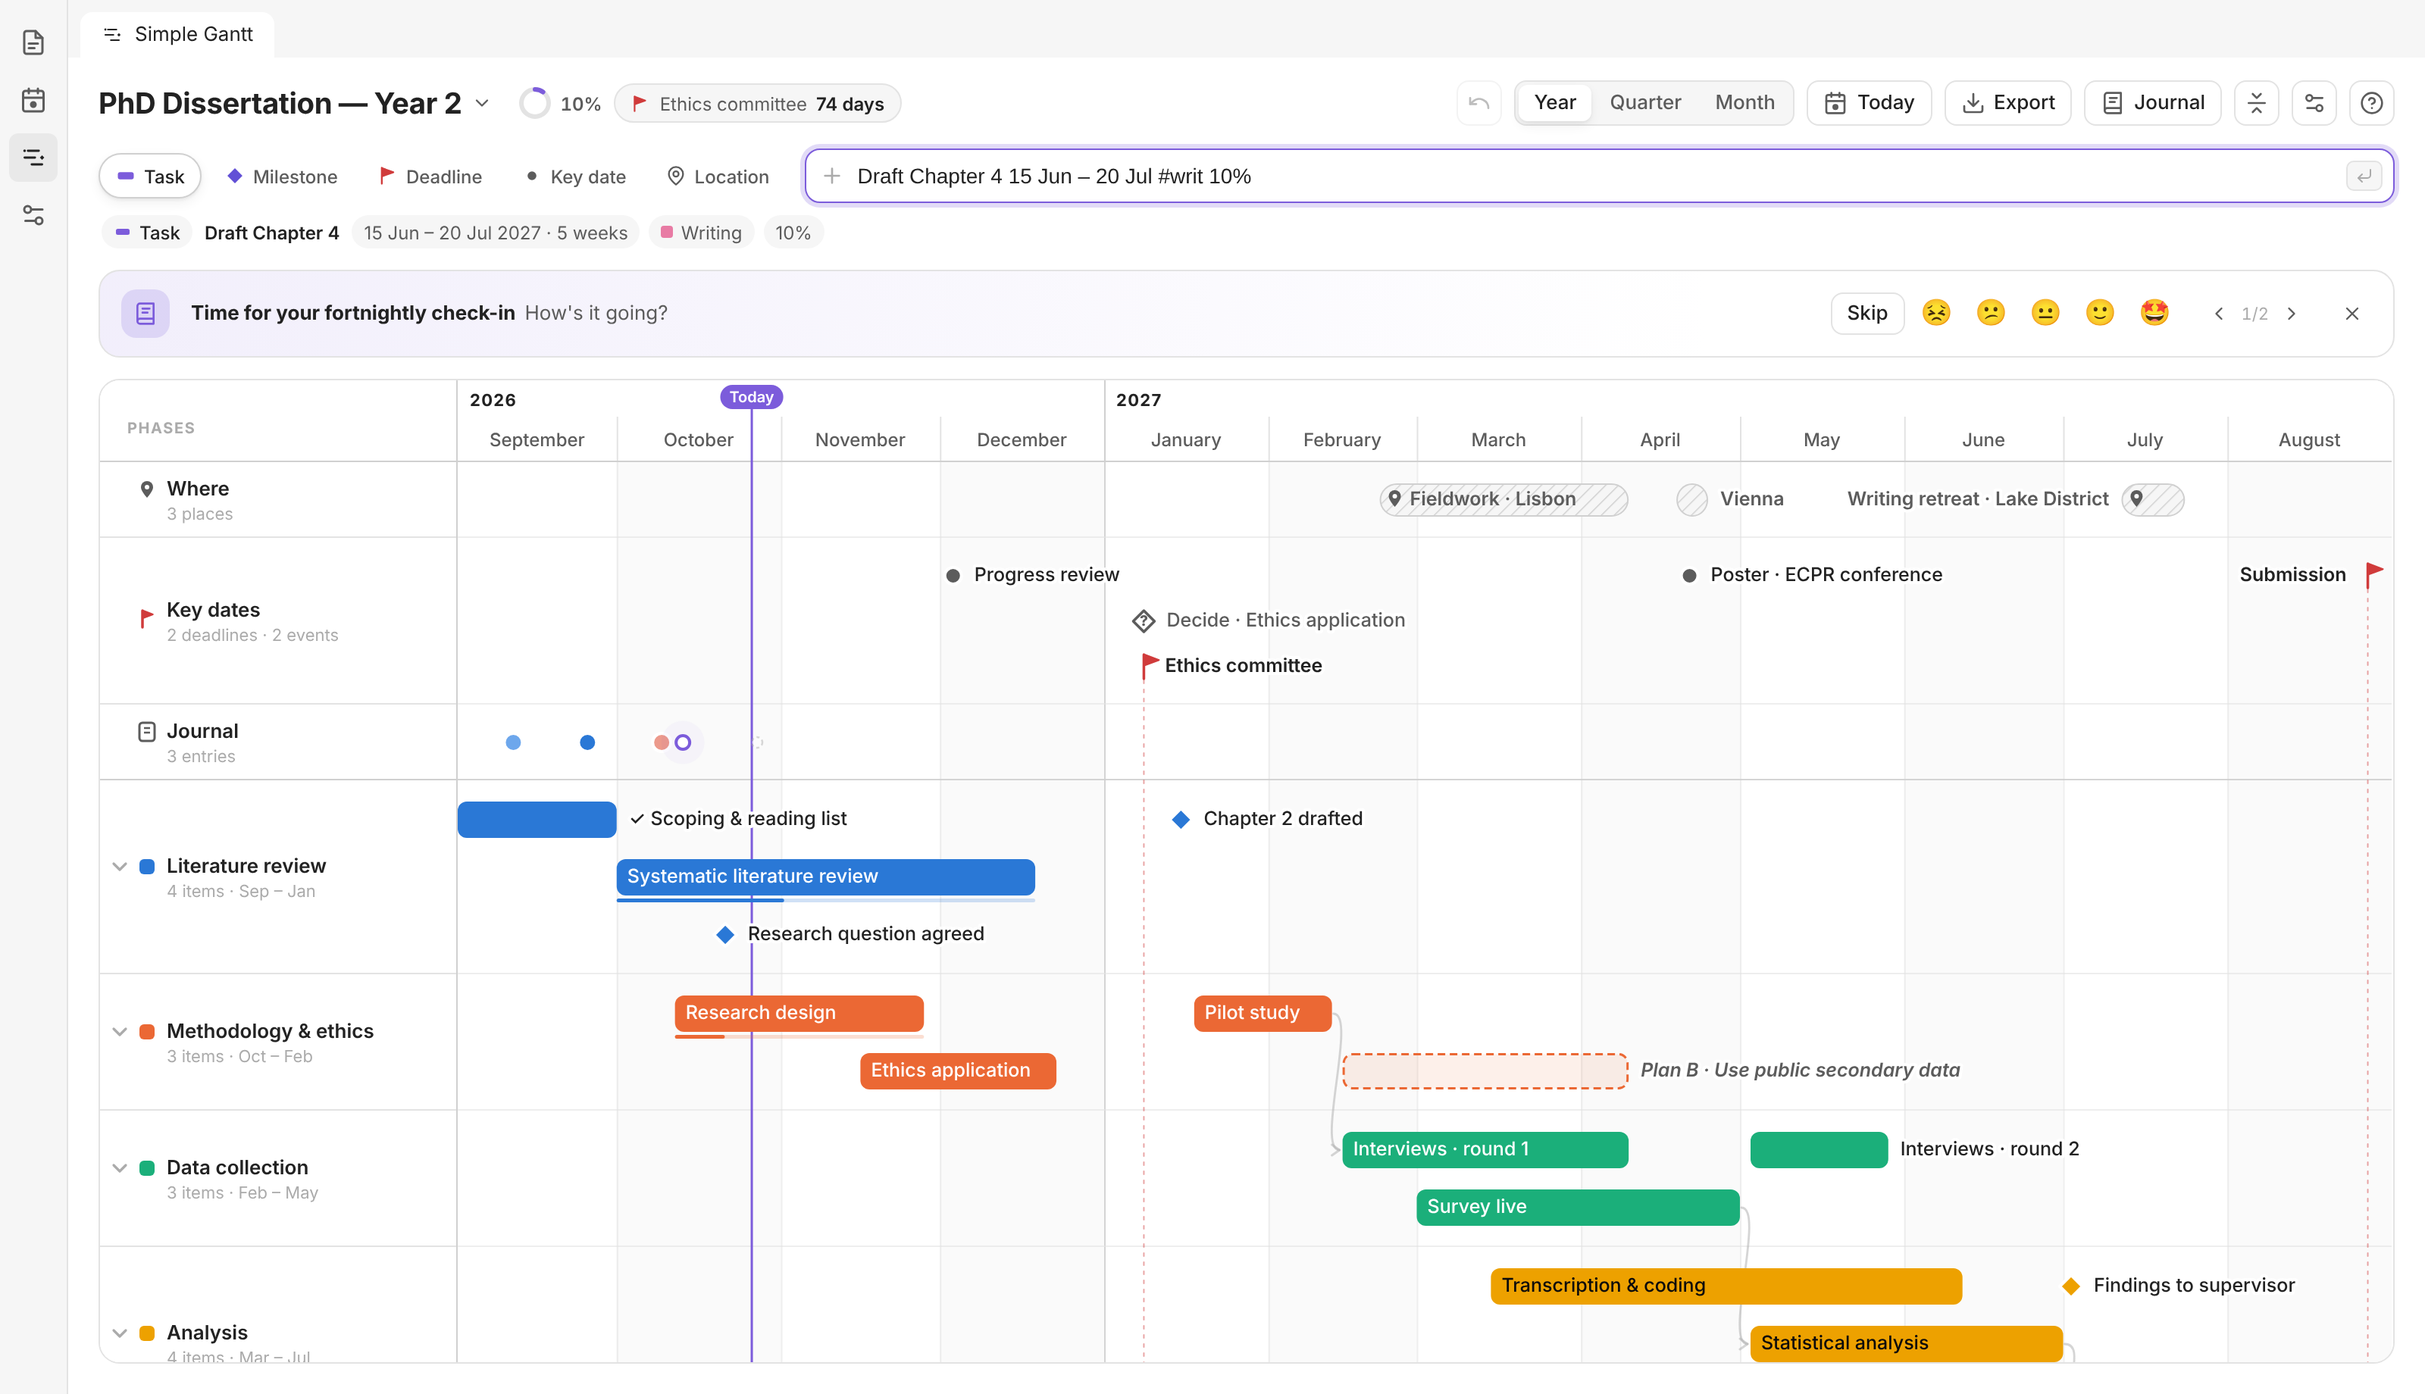
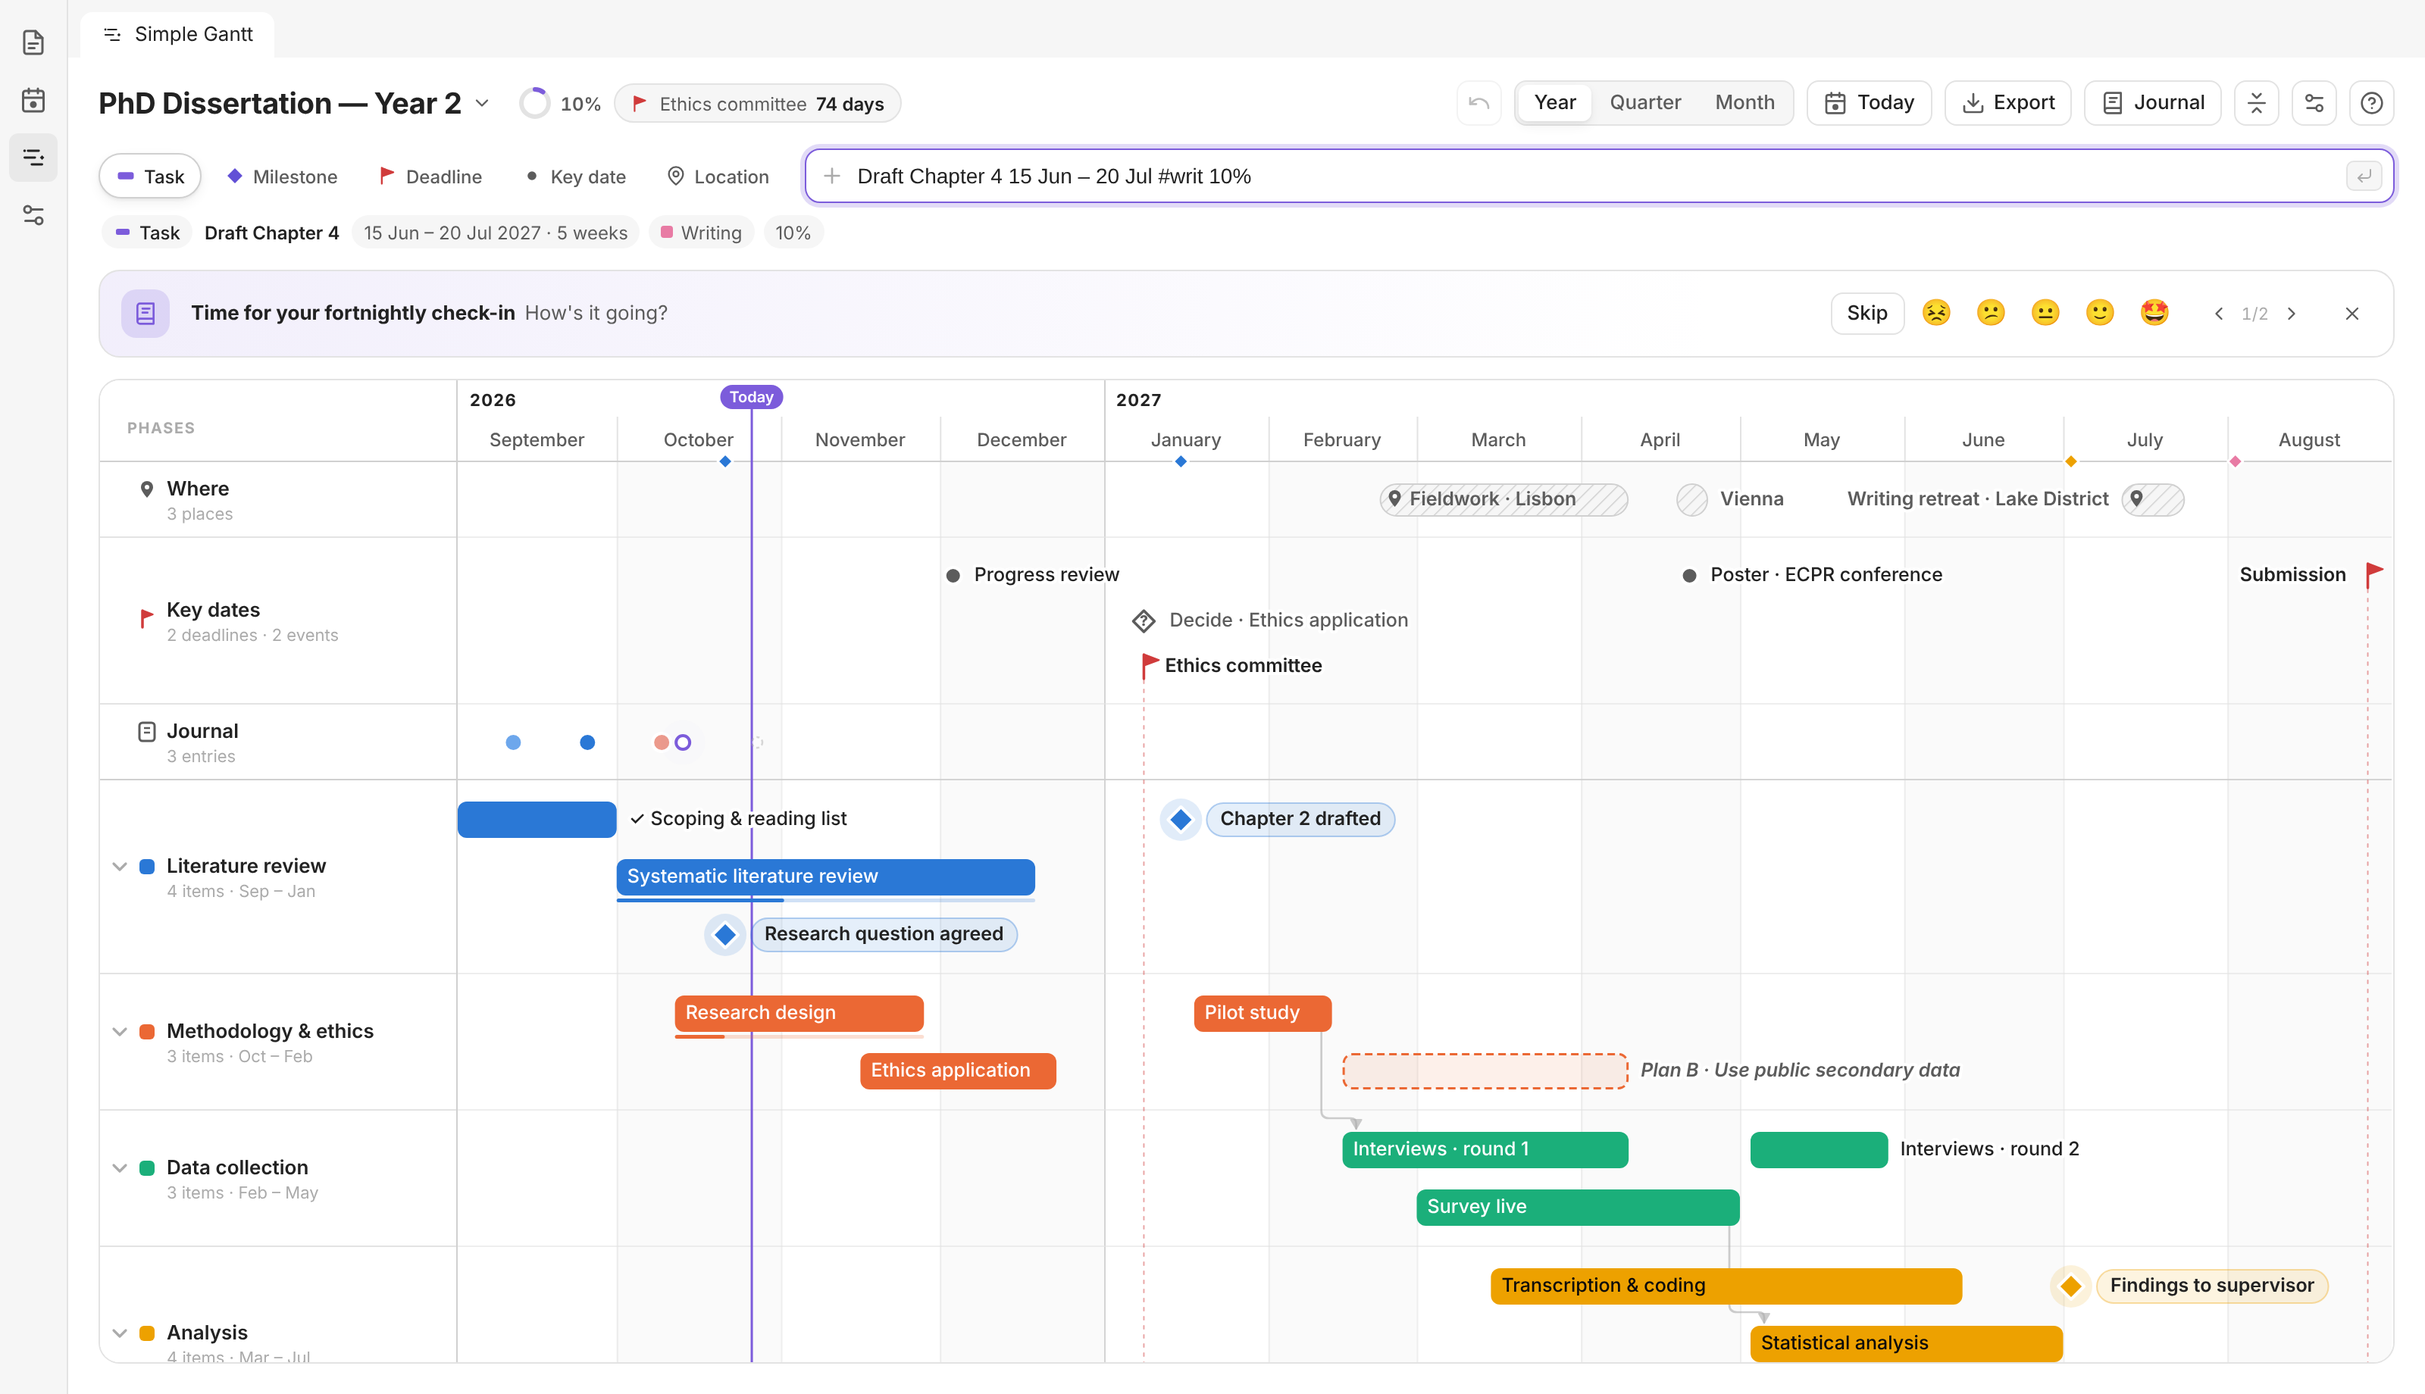
Professional link routing and highlighted milestones (0.6.0)
- Links are orthogonal with softly rounded corners: they leave from
  under the end of a task (never through its label), run straight into
  the next task, or drop onto its top edge when it starts right away;
  arrowheads follow the final direction
- Links to deadlines are left out of exports (the dashed rule shows it)
- Milestones: larger diamond with a soft glow ring, a phase-tinted badge
  for the name, and a marker on the date ruler for every milestone

diff --git a/src/core/render.ts b/src/core/render.ts
@@ -1,5 +1,5 @@
 import { MONTHS_LONG, MONTHS_SHORT, dayFromYmd, formatDay, monthEnd, toDay, weekday, ymd } from "./dates";
-import { Lane, Layout, Measure, Placed, computeLayout } from "./layout";
+import { Lane, Layout, MILESTONE_BADGE_PAD, Measure, Placed, computeLayout } from "./layout";
 import { PRINT_THEME, Theme, inkOnFill } from "./theme";
 import { earliestAfter } from "./links";
 import { isOn } from "./features";
@@ -146,6 +146,20 @@ export function paintHeader(layout: Layout, o: PaintOptions): SVGSVGElement {
 	}
 
 	svgEl("line", { x1: 0, x2: layout.width, y1: layout.headerH - 0.5, y2: layout.headerH - 0.5, stroke: theme.axis }, svg);
+
+	// Milestones are marked on the date ruler too, so they're visible even when rows are folded or scrolled away.
+	for (const p of layout.placed) {
+		if (p.kind !== "item" || p.item.type !== "milestone" || p.item.dropped) continue;
+		const x = layout.xOf(p.startDay) + layout.pxPerDay / 2;
+		const y = layout.headerH - 0.5;
+		const r = 5;
+		const fill = p.color ? theme.palette[p.color] : theme.inkSecondary;
+		const m = svgEl("path", {
+			d: `M${x},${y - r} L${x + r},${y} L${x},${y + r} L${x - r},${y} Z`,
+			fill, stroke: theme.surface, "stroke-width": 1.5, "stroke-linejoin": "round", class: "sg-ruler-milestone",
+		}, svg);
+		svgEl("title", {}, m).textContent = `${p.item.title} · ${formatDay(p.startDay)}`;
+	}
 
 	if (o.today != null && o.today >= layout.viewStart && o.today <= layout.viewEnd) {
 		const x = layout.xOf(o.today) + layout.pxPerDay / 2;
@@ -416,7 +430,9 @@ function paintItem(parent: Element, p: Placed, layout: Layout, o: PaintOptions, 
 	} else {
 		const cx = (p.x0 + p.x1) / 2;
 		if (it.type === "milestone") {
-			const r = 7.5;
+			const r = 8.5;
+			// A soft glow ring makes milestones stand out from bars and key dates.
+			if (!p.lane.collapsed) svgEl("circle", { cx, cy: p.cy, r: 14, fill: color, opacity: theme.dark ? 0.2 : 0.14, "pointer-events": "none", class: "sg-glow" }, g);
 			svgEl("path", {
 				d: `M${cx},${p.cy - r} L${cx + r},${p.cy} L${cx},${p.cy + r} L${cx - r},${p.cy} Z`,
 				fill: p.lane.collapsed ? theme.surface : color, stroke: p.lane.collapsed ? color : theme.surface,
@@ -433,7 +449,8 @@ function paintItem(parent: Element, p: Placed, layout: Layout, o: PaintOptions, 
 			}, g);
 		}
 		svgEl("rect", { x: cx - 10, y: p.cy - 11, width: 20, height: 22, fill: "transparent", "data-part": "body", class: "sg-hit" }, g);
-		text(g, p.labelX, p.cy, p.label, { ...labelAttrs, ...halo(theme), fill: theme.ink });
+		if (it.type === "milestone" && p.label) milestoneBadge(g, p, color, theme, labelAttrs);
+		else text(g, p.labelX, p.cy, p.label, { ...labelAttrs, ...halo(theme), fill: theme.ink });
 	}
 }
 
@@ -446,36 +463,81 @@ function paintLinks(svg: SVGSVGElement, layout: Layout, o: PaintOptions) {
 		for (const id of succ.item.after ?? []) {
 			const pred = byId.get(id);
 			if (!pred || pred.item.dropped || succ.item.dropped) continue;
+			const pts = routeLink(pred, succ, layout);
+			if (!pts) continue;
 			const bad = succ.startDay < earliestAfter(pred.item, succ.item);
 			const color = bad ? theme.deadline : theme.inkMuted;
-			const d = linkPath(pred.x1 + 1, pred.cy, succ.x0 - 2, succ.cy, layout.g.rowPitch);
-			// Links to or from a deadline duplicate its dashed rule: keep them hidden until hovered (interactive only).
-			const quiet = !bad && !!o.interactive && (pred.item.type === "deadline" || succ.item.type === "deadline");
+			// Links to or from a deadline duplicate its dashed rule: on screen they show on hover, on paper not at all.
+			const touchesDeadline = pred.item.type === "deadline" || succ.item.type === "deadline";
+			if (touchesDeadline && !bad && !o.interactive) continue;
+			const quiet = touchesDeadline && !bad;
 			const link = svgEl("g", { class: `sg-link${bad ? " is-bad" : ""}${quiet ? " is-quiet" : ""}`, "data-link": `${pred.item.id} ${succ.item.id}` }, g);
-			const attrs = { stroke: color, "stroke-linecap": "round", "stroke-linejoin": "round", opacity: bad ? 0.9 : 0.5 };
-			svgEl("path", { d, ...attrs, "stroke-width": bad ? 1.6 : 1.4, class: "sg-link-line" }, link);
-			// A small open chevron reads lighter than a filled triangle.
-			const x = succ.x0 - 2, y = succ.cy;
-			svgEl("path", { d: `M${x - 5},${y - 3.5} L${x},${y} L${x - 5},${y + 3.5}`, ...attrs, "stroke-width": 1.5, class: "sg-link-head" }, link);
+			const attrs = { stroke: color, "stroke-linecap": "round", "stroke-linejoin": "round", opacity: bad ? 0.9 : 0.6 };
+			svgEl("path", { d: roundedPath(pts, 5), ...attrs, "stroke-width": bad ? 1.6 : 1.35, class: "sg-link-line" }, link);
+			svgEl("path", { d: arrowHead(pts), ...attrs, fill: color, "stroke-width": 1, class: "sg-link-head" }, link);
 		}
 	}
 }
 
+type Pt = [number, number];
+
 /**
- * A smooth link from (x1, y1) to (x2, y2) that leaves and arrives horizontally.
- * Forward links are one S-curve; links that must go backwards loop through the gap between rows.
+ * Orthogonal route for a finish-to-start link. It leaves from just under (or over) the end of the
+ * predecessor, so it never crosses that item's label, then either runs straight into the successor's
+ * start or, when the successor starts right away, drops onto its top edge.
  */
-function linkPath(x1: number, y1: number, x2: number, y2: number, pitch: number): string {
-	if (Math.abs(y1 - y2) < 1) return `M${x1},${y1} L${x2},${y2}`;
-	const dx = x2 - x1;
-	// Forward, or back-to-back (next starts right as this ends): one gentle S-curve.
-	if (dx >= -24) {
-		const k = Math.max(16, Math.min(60, Math.abs(dx) / 2, Math.abs(y2 - y1) * 0.8));
-		return `M${x1},${y1} C${x1 + k},${y1} ${x2 - k},${y2} ${x2},${y2}`;
+function routeLink(pred: Placed, succ: Placed, layout: Layout): Pt[] | null {
+	const down = succ.cy > pred.cy;
+	const sign = down ? 1 : -1;
+	const point = (p: Placed) => p.item.type !== "task" && p.item.type !== "location";
+	const predHalf = point(pred) ? 9 : pred.lane.markH / 2;
+	const succHalf = point(succ) ? 10 : succ.lane.markH / 2;
+	const sx = point(pred) ? (pred.x0 + pred.x1) / 2 : pred.x1 - Math.min(7, (pred.x1 - pred.x0) / 2);
+	const sy = pred.cy + sign * predHalf;
+	const tx = succ.x0 - 2;
+	const ty = succ.cy;
+
+	if (Math.abs(pred.cy - succ.cy) < 1) {
+		// Same row: a short straight line from the end of the predecessor's footprint (bar or label).
+		const from = pred.labelInside || !pred.labelW || pred.labelAnchor === "end" ? pred.x1 + 2 : pred.labelX + pred.labelW + 6;
+		return tx - from >= 10 ? [[from, ty], [tx, ty]] : null;
 	}
-	const mid = y2 + (y2 > y1 ? -1 : 1) * (pitch / 2);
-	const r = Math.min(14, Math.abs(mid - y1) / 2, Math.abs(y2 - mid) / 2 + 6);
-	return `M${x1},${y1} C${x1 + r + 6},${y1} ${x1 + r + 6},${mid} ${x1},${mid} L${x2},${mid} C${x2 - r - 6},${mid} ${x2 - r - 6},${y2} ${x2},${y2}`;
+	if (tx - sx >= 12) return [[sx, sy], [sx, ty], [tx, ty]];
+
+	// The successor starts at or before our end: arrive on its near edge instead.
+	const edge = succ.cy - sign * (succHalf + 2);
+	const cx = point(succ) ? (succ.x0 + succ.x1) / 2 : Math.max(sx, succ.x0 + 9);
+	const onTarget = point(succ) ? Math.abs(cx - sx) < 1 : cx <= succ.x1 - 6;
+	if (onTarget && cx === sx) return [[sx, sy], [sx, edge]];
+	const gap = succ.cy - sign * (succHalf + (layout.g.rowPitch - layout.g.barH) / 2 + 2);
+	if (onTarget || point(succ)) return [[sx, sy], [sx, gap], [cx, gap], [cx, edge]];
+	// Fully backwards: come round through the gap and enter from the left.
+	return [[sx, sy], [sx, gap], [tx - 10, gap], [tx - 10, ty], [tx, ty]];
+}
+
+/** A polyline with softly rounded corners (radius r, never more than half of either segment). */
+function roundedPath(pts: Pt[], r: number): string {
+	let d = `M${pts[0][0]},${pts[0][1]}`;
+	for (let i = 1; i < pts.length - 1; i++) {
+		const [px, py] = pts[i - 1], [x, y] = pts[i], [nx, ny] = pts[i + 1];
+		const inLen = Math.hypot(x - px, y - py), outLen = Math.hypot(nx - x, ny - y);
+		const k = Math.min(r, inLen / 2, outLen / 2);
+		const ax = x - ((x - px) / (inLen || 1)) * k, ay = y - ((y - py) / (inLen || 1)) * k;
+		const bx = x + ((nx - x) / (outLen || 1)) * k, by = y + ((ny - y) / (outLen || 1)) * k;
+		d += ` L${ax},${ay} Q${x},${y} ${bx},${by}`;
+	}
+	const [lx, ly] = pts[pts.length - 1];
+	return d + ` L${lx},${ly}`;
+}
+
+/** A small arrowhead at the end of the route, pointing along its last segment. */
+function arrowHead(pts: Pt[]): string {
+	const [x, y] = pts[pts.length - 1];
+	const [px, py] = pts[pts.length - 2];
+	const len = Math.hypot(x - px, y - py) || 1;
+	const ux = (x - px) / len, uy = (y - py) / len;
+	const bx = x - ux * 6, by = y - uy * 6;
+	return `M${x},${y} L${bx - uy * 3.5},${by + ux * 3.5} L${bx + uy * 3.5},${by - ux * 3.5} Z`;
 }
 
 /** Plan B ghosts, decision points, journal entries and check-in slots. */
@@ -532,6 +594,20 @@ function paintDerived(g: SVGGElement, p: Placed, layout: Layout, o: PaintOptions
 		}, g);
 		svgEl("rect", { x: cx - 9, y: p.cy - 10, width: 18, height: 20, fill: "transparent", "data-part": "body", class: "sg-hit" }, g);
 	}
+}
+
+/** A milestone's name in a rounded badge tinted with its phase colour. */
+function milestoneBadge(g: SVGGElement, p: Placed, color: string, theme: Theme, labelAttrs: Attrs) {
+	const h = 22;
+	const x = p.labelAnchor === "end" ? p.labelX - p.labelW : p.labelX;
+	svgEl("rect", {
+		x, y: p.cy - h / 2, width: p.labelW, height: h, rx: h / 2,
+		fill: color, "fill-opacity": theme.dark ? 0.22 : 0.12, stroke: color, "stroke-opacity": theme.dark ? 0.5 : 0.35,
+		"pointer-events": "none", class: "sg-badge",
+	}, g);
+	text(g, p.labelAnchor === "end" ? p.labelX - MILESTONE_BADGE_PAD : p.labelX + MILESTONE_BADGE_PAD, p.cy, p.label, {
+		...labelAttrs, fill: theme.ink, "font-weight": 600,
+	});
 }
 
 /** Where the link dot sits: just past the bar, or past its label when the label is beside it. */

diff --git a/src/core/layout.ts b/src/core/layout.ts
@@ -37,6 +37,9 @@ export const COMPACT: Geometry = {
 	fontSize: 12,
 };
 
+/** Horizontal padding inside a milestone's label badge. */
+export const MILESTONE_BADGE_PAD = 9;
+
 export function geometry(density?: Density): Geometry {
 	return density === "compact" ? COMPACT : G;
 }
@@ -278,8 +281,10 @@ export function computeLayout(project: Project, opts: LayoutOptions): Layout {
 			const [s, e] = itemDays(item);
 			const done = mark.kind === "item" && isDone(item);
 			const label = journal || (flat && mark.kind !== "summary") ? "" : (done ? "✓ " : "") + (item.title || "Untitled");
-			const weight = item.type === "deadline" || item.type === "location" ? 600 : 500;
-			const labelW = label ? opts.measure(label, weight, g.fontSize) : 0;
+			const badge = item.type === "milestone" && !!label;
+			const weight = item.type === "deadline" || item.type === "location" || badge ? 600 : 500;
+			// Milestone labels sit in a tinted badge: reserve its padding.
+			const labelW = label ? opts.measure(label, weight, g.fontSize) + (badge ? MILESTONE_BADGE_PAD * 2 : 0) : 0;
 			let x0: number, x1: number, labelX: number, labelInside = false, labelAnchor: "start" | "end" = "start";
 			if (item.type === "task" || item.type === "location") {
 				x0 = xOf(s);
@@ -291,7 +296,7 @@ export function computeLayout(project: Project, opts: LayoutOptions): Layout {
 				} else labelX = x1 + g.labelGap;
 			} else {
 				const cx = xOf(s) + ppd / 2;
-				const r = item.type === "milestone" ? 7 : 6;
+				const r = item.type === "milestone" ? 9 : 6;
 				x0 = cx - r;
 				x1 = cx + r;
 				labelX = x1 + g.labelGap;

diff --git a/README.md b/README.md
@@ -18,7 +18,8 @@ A simple, beautiful Gantt chart for Obsidian. Plan a project (or a whole dissert
   | ⌖ | **Location** | Where you'll be: fieldwork, trips, retreats. |
 - **Add things in one line** with the quick-add bar. A live preview shows exactly what will be created.
 - **Drag to edit.** Move bars, resize them from either end, or drag a task into another phase. Drag across an empty row to draw a task, or double-click to drop a milestone. While you drag, date guides show exactly where it will land. Empty rows say how to start, and each row has a **+** to add to it.
-- **Links that keep the order.** Hover a bar and drag the dot at its end onto what comes next, for example *Analysis starts after Data collection*. Arrows show the chain. When something slips, everything linked after it moves too. If a deadline would be missed, the arrow turns red and you get a warning.
+- **Links that keep the order.** Hover a bar and drag the dot at its end onto what comes next, for example *Analysis starts after Data collection*. Clean right-angled arrows with softened corners show the chain, and they light up when you hover a task. When something slips, everything linked after it moves too. If a deadline would be missed, the arrow turns red and you get a warning.
+- **Milestones stand out.** Each milestone has a glowing diamond, a badge tinted with its phase colour, and a marker on the date ruler, so you can see every milestone at a glance even when phases are folded.
 - **Fold phases.** Click a phase to fold it into one summary bar that shows overall progress. Press **F** to fold everything for a clean overview, or for a short version of the chart in your dissertation.
 - **Buffer time.** Plan slack for the delays that always come, with a hatched bar (`~` in quick add). You can also use "Add 2 weeks of buffer after this" on any task. Guides for PhD planning commonly suggest a few weeks of buffer per phase.
 - **Keyboard.** ←/→ move the selected item by a day (Shift: a week), Alt+←/→ resize it, and ↑/↓ move it to another phase. Press **?** for a card with every gesture.
